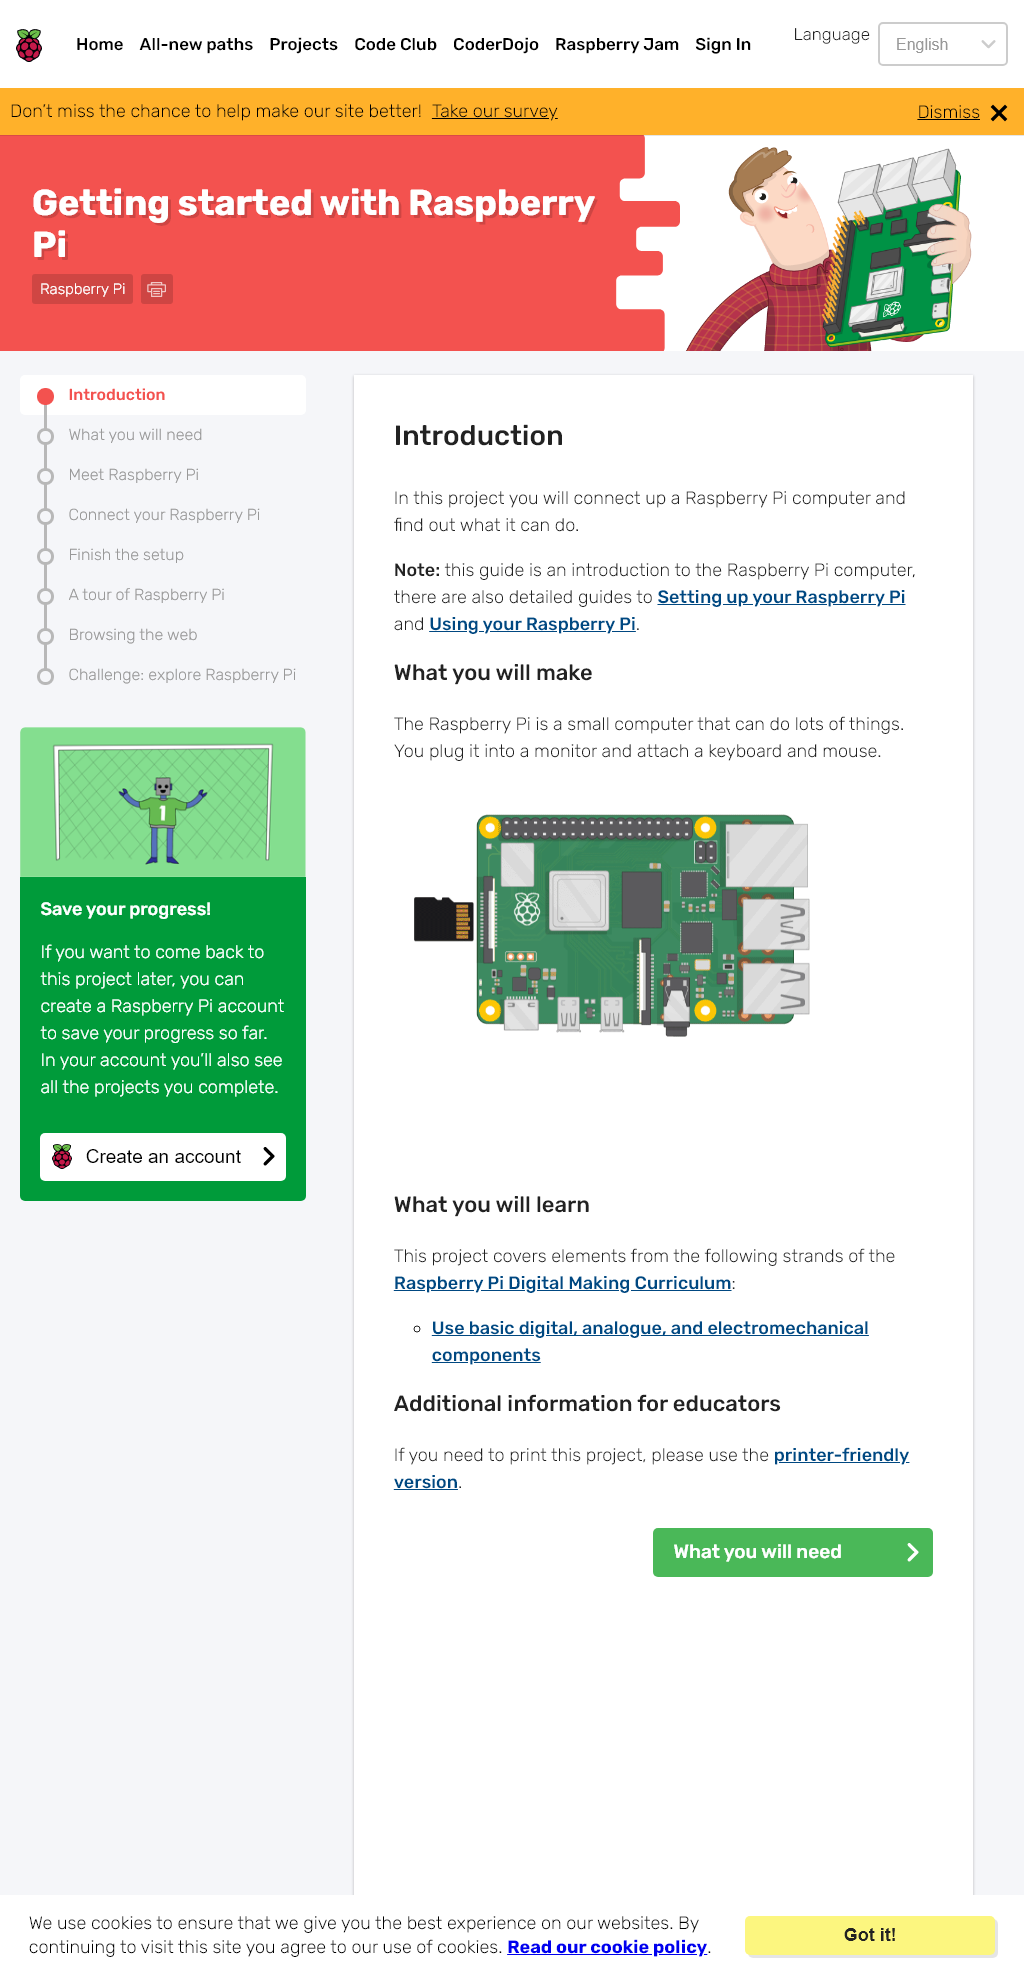
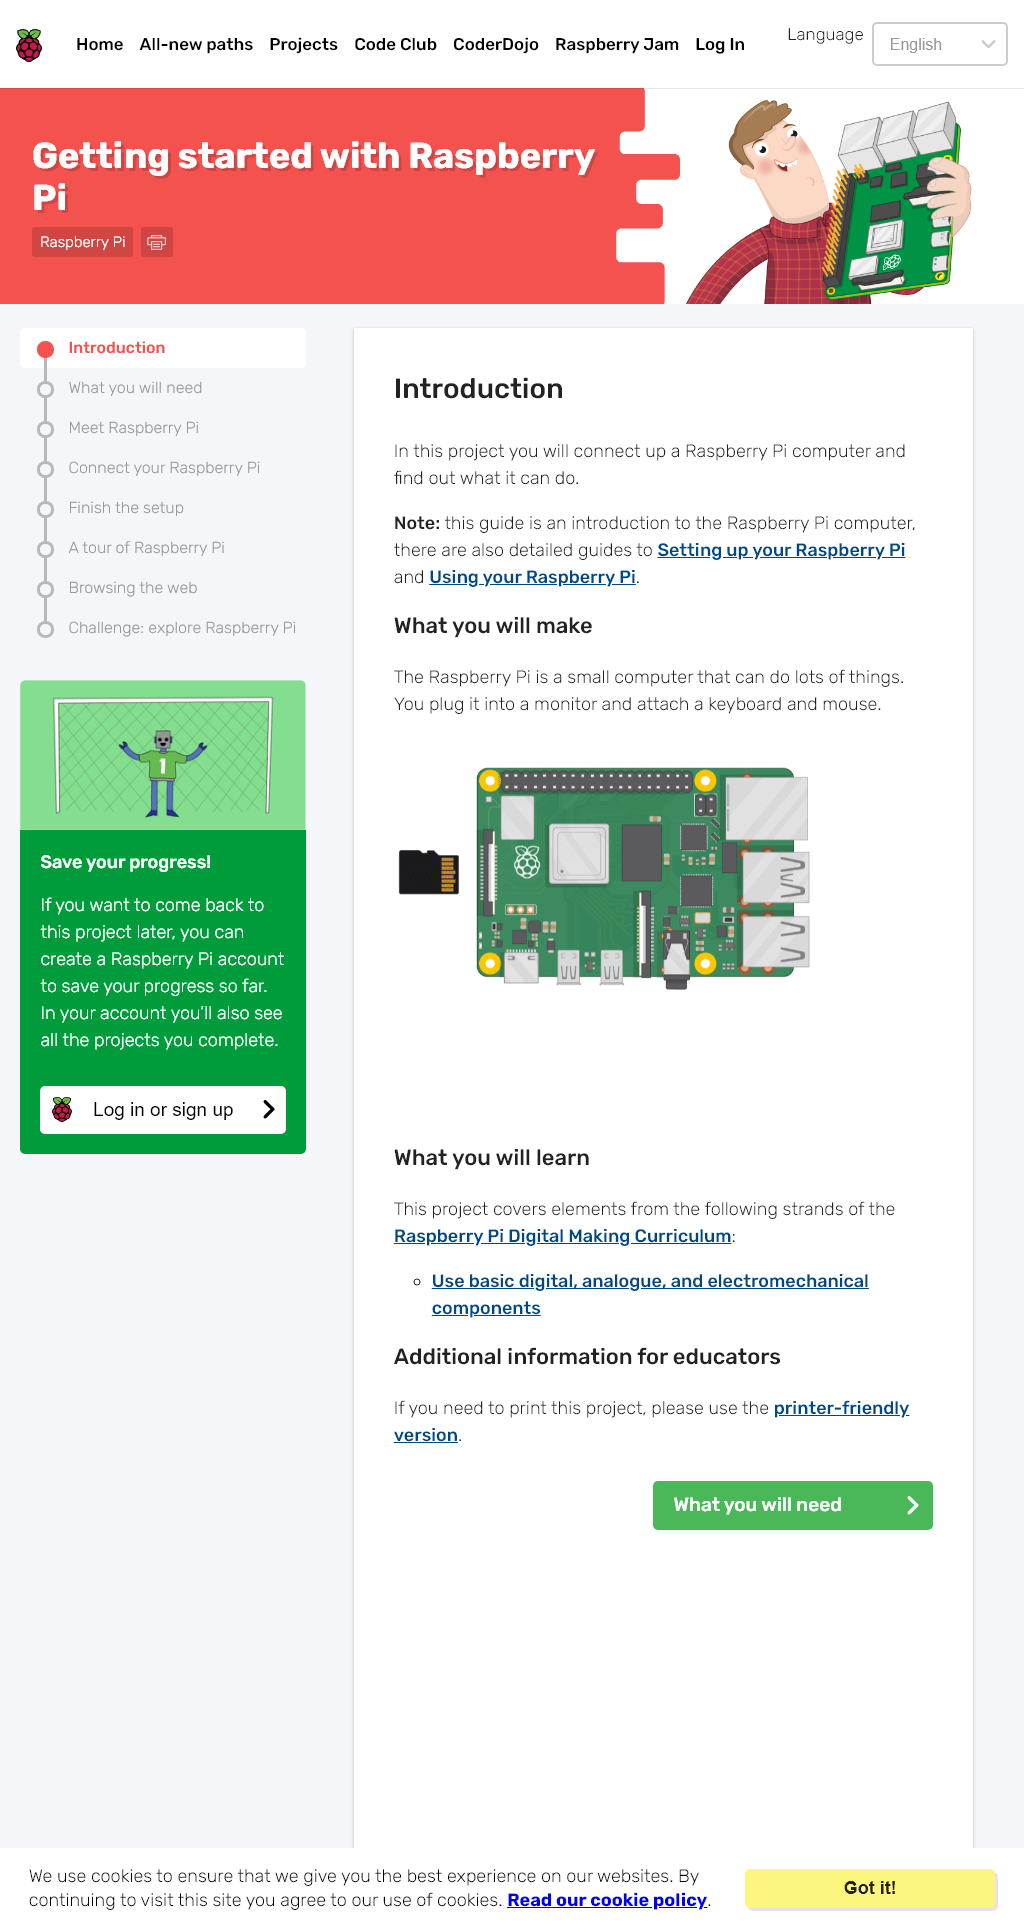
Bring back nav, add seasons page stub

diff --git a/ui/src/App.tsx b/ui/src/App.tsx
@@ -9,14 +9,15 @@ export const App = () => {
     <Container maxW={'full'} minW={'container.xs'} padding={0}>
       <Header />
 
-      {/*<HStack>*/}
-      {/*  <Link href={'/'}>Home</Link>*/}
-      {/*  <Link href={'about'}>About</Link>*/}
-      {/*  <Link href={'ninjas'}>Become A Ninja</Link>*/}
-      {/*  <Link href={'location'}>Find Us</Link>*/}
-      {/*  <Link href={'projects'}>Projects</Link>*/}
-      {/*  <Link href={'scraper'}>Scraper</Link>*/}
-      {/*</HStack>*/}
+      <HStack>
+        <Link href={'/'}>Home</Link>
+        <Link href={'about'}>About</Link>
+        <Link href={'seasons'}>Seasons</Link>
+        <Link href={'ninjas'}>Become A Ninja</Link>
+        <Link href={'location'}>Find Us</Link>
+        <Link href={'projects'}>Projects</Link>
+        <Link href={'scraper'}>Scraper</Link>
+      </HStack>
 
       <Main />
       <Footer />

diff --git a/ui/src/Main.tsx b/ui/src/Main.tsx
@@ -7,6 +7,7 @@ import { ProjectList } from 'ProjectList'
 import React from 'react'
 import { Route, Routes } from 'react-router-dom'
 import { Scraper } from 'Scraper'
+import { Seasons } from 'Seasons'
 
 export const Main = () => {
   return (
@@ -14,11 +15,14 @@ export const Main = () => {
       <Container maxW={'container.xl'} minH={800} p={5}>
         <Routes>
           <Route path="/" element={<ProjectList />} />
-          {/*<Route path="/" element={<ProjectList />} />*/}
+
           <Route path="/projects" element={<ProjectList />} />
 
           {/* ABOUT */}
           <Route path="/about" element={<About />} />
+
+          {/* SEASONS */}
+          <Route path="/seasons" element={<Seasons />} />
 
           {/* BECOME A NINJA */}
           <Route path="/ninjas" element={<Ninjas />} />

diff --git a/server/index.ts b/server/index.ts
@@ -1,8 +1,11 @@
+import { config } from 'dotenv'
 import express from 'express'
 import multer from 'multer'
+import ogs from 'open-graph-scraper'
 import Pageres from 'pageres'
 import path from 'path'
-import { config } from 'dotenv'
+
+import getMetaData from 'metadata-scraper'
 
 const PORT = process.env.PORT || 3001
 
@@ -55,6 +58,10 @@ app.post('/api/scrape', (req, res) => {
 
   const slug = url.split('/').pop()
   console.log('slug', slug)
+
+  getMetaData(url).then((data) => {
+    console.log(data)
+  })
 
   return new Pageres({ filename: slug, launchOptions: { args: ['--no-sandbox'] } })
     .src(url, ['1024x768'])

diff --git a/ui/src/Seasons.tsx b/ui/src/Seasons.tsx
@@ -1,0 +1,3 @@
+import React from 'react'
+
+export const Seasons = () => <>SEASONS</>
